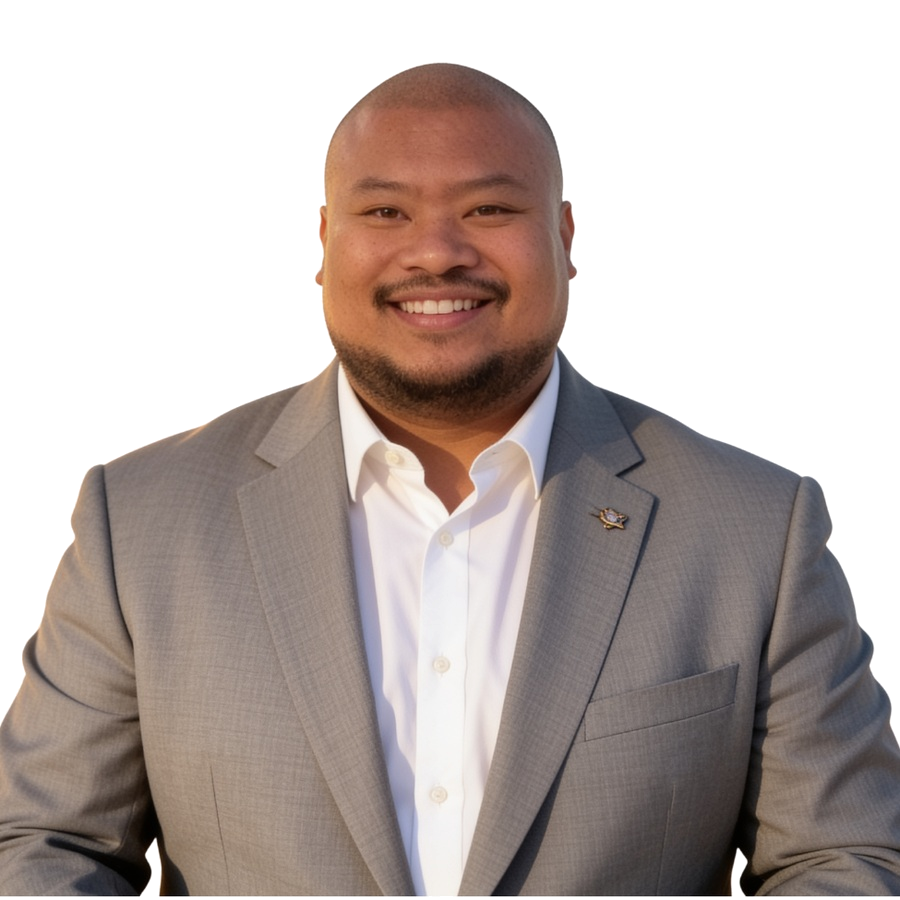
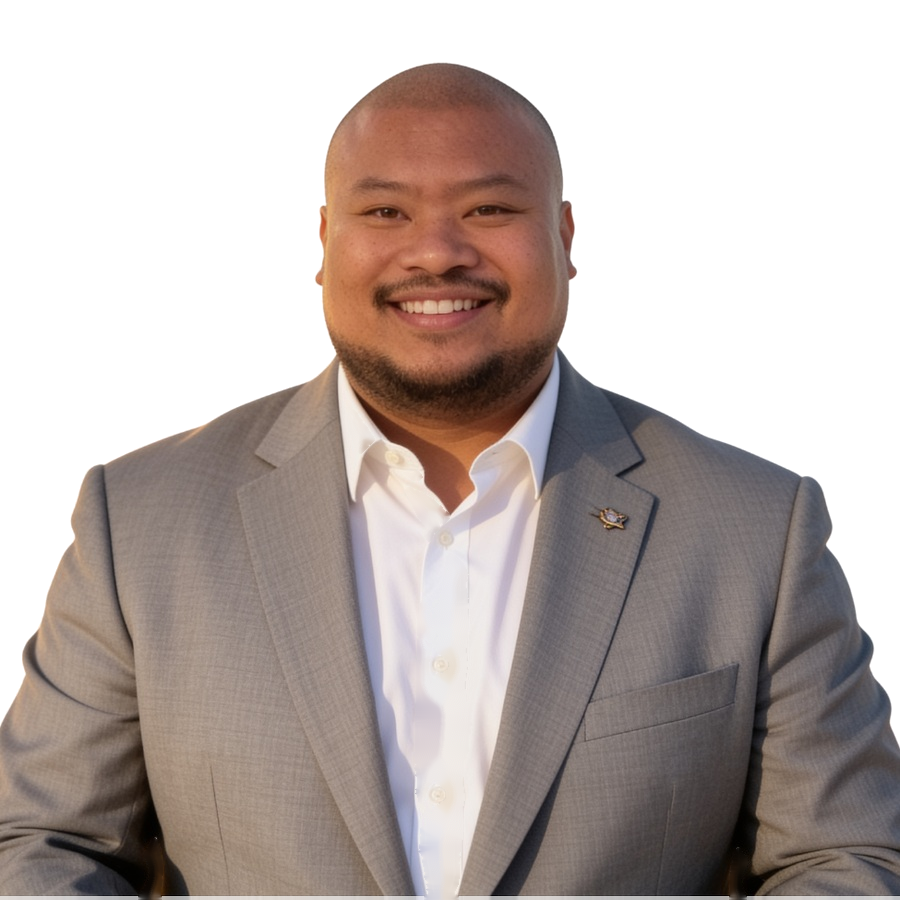
Fix the headshot: solid shirt, full gold ring
The cut-out had a hole down the shirt placket (the background remover took
the white shirt for background), so the post's background showed through on
every graphic. Filled the hole and repainted it from the surrounding shirt,
and extended the empty bottom rows.

Medallion: the ring now sits in front of the shoulders (a full circle) and
behind the head only; shoulders stay inside the circle.

Claude-Session: https://claude.ai/code/session_01BRfQK79EpM4N5L3QGBjpmd

diff --git a/bot/render.py b/bot/render.py
@@ -538,11 +538,16 @@ def medallion(path: Path | None, size: int, th: Theme) -> Image.Image:
     person = Image.new("RGBA", (S, H), (0, 0, 0, 0))
     mask = Image.new("L", (S, H), 0)
     if cut:
-        pw = int(S * 1.22)
+        pw = int(S * 1.16)
         pim = im.resize((pw, int(im.height * pw / im.width)), Image.LANCZOS)
         person.paste(pim, ((S - pw) // 2, H - pim.height), pim)
         mask.paste(cmask, (0, top))
-        ImageDraw.Draw(mask).rectangle((0, 0, S, top + int(S * 0.30)), fill=255)   # head may break the ring
+        # only the head rises above the ring: a soft-edged column over the centre,
+        # so shoulders and arms always stay inside the circle
+        col = Image.new("L", (S, H), 0)
+        ImageDraw.Draw(col).rounded_rectangle((int(S * 0.27), 0, int(S * 0.73), top + int(S * 0.22)),
+                                              radius=int(S * 0.2), fill=255)
+        mask = ImageChops.lighter(mask, col)
     else:
         inner = S - 12
         pim = ImageOps.fit(im, (inner, inner), centering=(0.5, 0.3))
@@ -551,6 +556,16 @@ def medallion(path: Path | None, size: int, th: Theme) -> Image.Image:
     pa = person.getchannel("A")
     person.putalpha(ImageChops.multiply(pa, mask))
     out.alpha_composite(person)
+    # the ring sits in FRONT of the shoulders (so it reads as a full circle) and
+    # BEHIND the head only, where the head rises over the top of it
+    ring_img = Image.new("RGBA", (S, H), (0, 0, 0, 0))
+    ring_img.alpha_composite(shape(S, S, ring), (0, top))
+    if cut:
+        head = Image.new("L", (S, H), 0)
+        head.paste(person.getchannel("A").crop((0, 0, S, top + int(S * 0.22))), (0, 0))
+        keep = ImageChops.invert(head.point(lambda v: 255 if v > 40 else 0))
+        ring_img.putalpha(ImageChops.multiply(ring_img.getchannel("A"), keep))
+    out.alpha_composite(ring_img)
     return out
 
 
